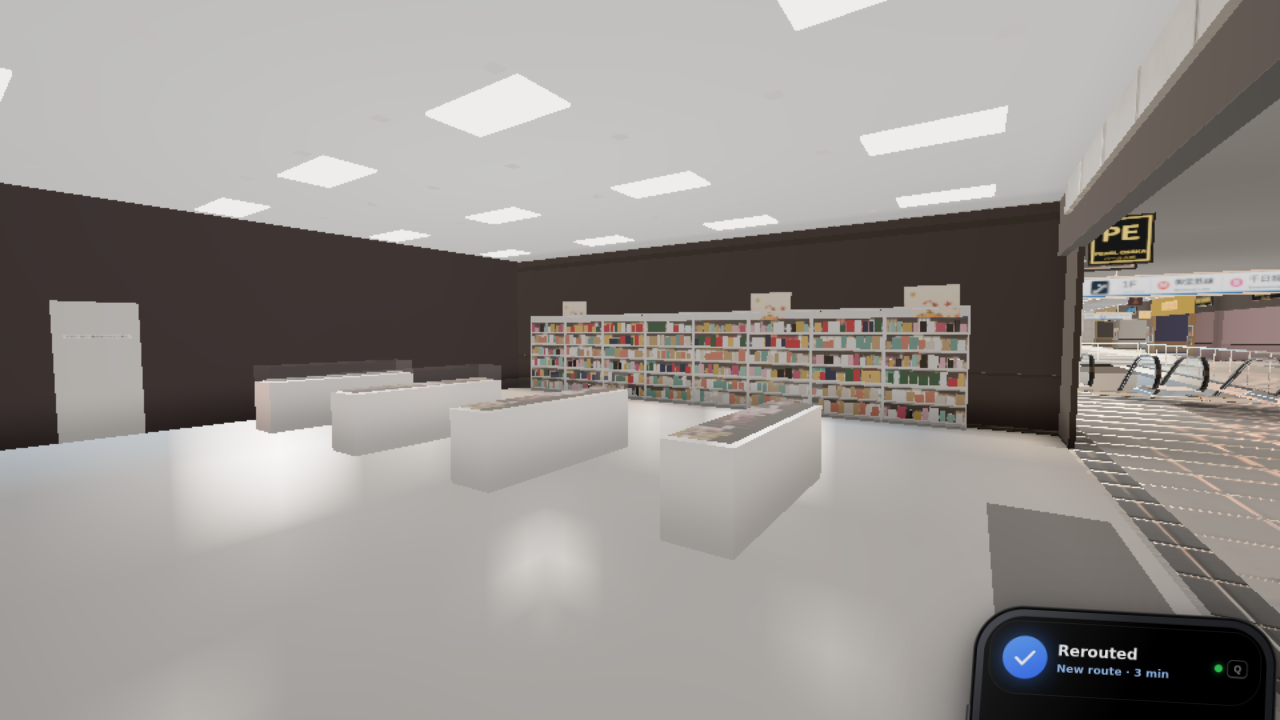
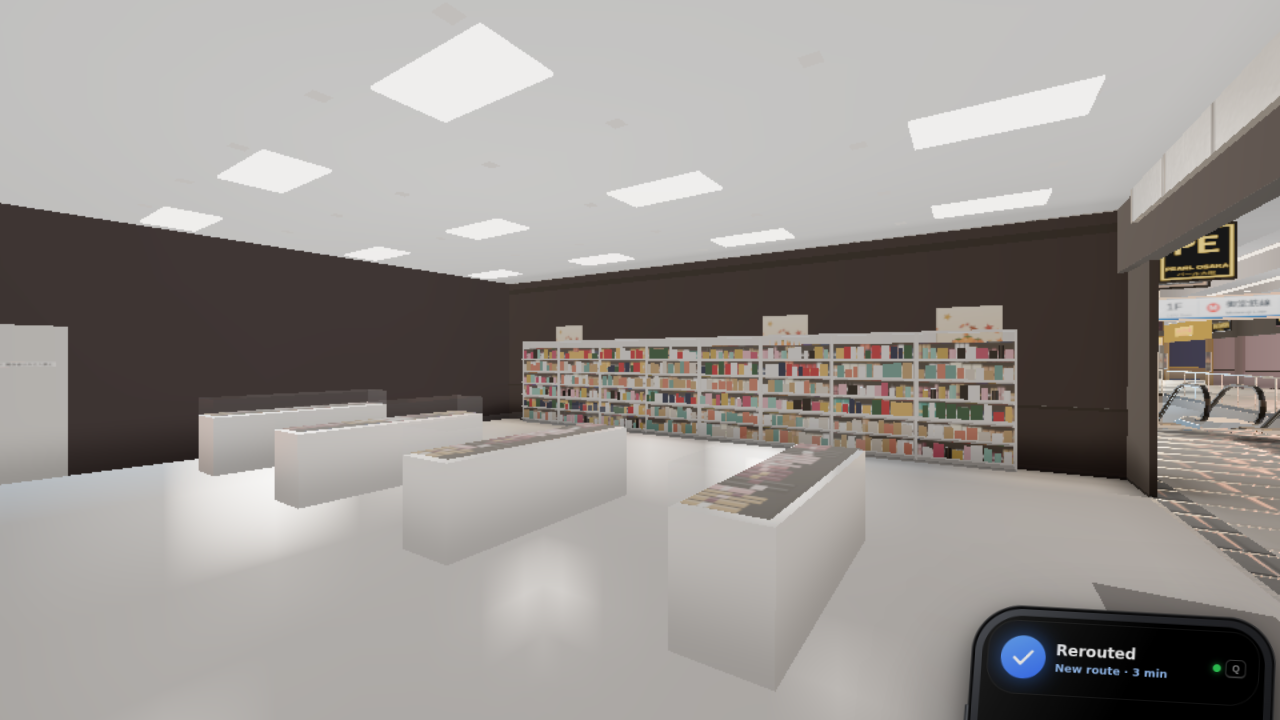
Lost in Namba v3: WIP checkpoint
Claude-Session: https://claude.ai/code/session_01DFPWmVZjWP3RarZo2JLFjj

diff --git a/namba-demo/js/render/intrusions.js b/namba-demo/js/render/intrusions.js
@@ -66,15 +66,23 @@ function clipStructures(ctx, res) {
       o.updateMatrixWorld();
       if (!o.matrixWorld.equals(IDENT)) return; // batches are built in world space
       const foreign = (x, y, z) => { const zn = zoneAt(x, y, z); return !!zn && !rule.keepZones.has(zn); };
-      // any foreign volume inside an AABB? (1 m sampling of the box)
+      const masks = rule._masks || (rule._masks = []);
+      // does an AABB touch a foreign indoor volume? (cell flags per level band, conservative)
       const boxHit = (b) => {
-        for (let y = b[1]; y <= b[4] + 1e-6; y += Math.max(0.5, (b[4] - b[1]) / 4 || 1)) {
-          for (let x = b[0]; x <= b[3] + 1e-6; x += 1) for (let z = b[2]; z <= b[5] + 1e-6; z += 1) if (foreign(x, y, z)) return true;
-          if (b[4] - b[1] < 1e-3) break;
+        for (let li = 0; li < LEVEL_ORDER.length; li++) {
+          const lo = ys[li] - 0.05, hi = li + 1 < ys.length ? ys[li + 1] - 0.05 : Infinity;
+          if (b[4] < lo || b[1] >= hi) continue;
+          if (masks[li] === undefined) { const tm = performance.now(); masks[li] = levelMask(world, LEVEL_ORDER[li], rule.keepZones, ys[li]); res.maskMs = (res.maskMs || 0) + performance.now() - tm; }
+          const m = masks[li]; if (!m) continue;
+          const yMin = Math.max(b[1], lo);
+          const g = m.g;
+          const cx0 = Math.max(0, Math.floor(b[0] - g.x0)), cx1 = Math.min(g.w - 1, Math.floor(b[3] - g.x0));
+          const cz0 = Math.max(0, Math.floor(b[2] - g.z0)), cz1 = Math.min(g.h - 1, Math.floor(b[5] - g.z0));
+          for (let cz = cz0; cz <= cz1; cz++) for (let cx = cx0; cx <= cx1; cx++) if (m.top[cz * g.w + cx] >= yMin) return true;
         }
         return false;
       };
-      const g = o.geometry, names = Object.keys(g.attributes);
+      const g = o.geometry, names = Object.keys(g.attributes).sort((a, b) => (a === 'position' ? -1 : b === 'position' ? 1 : 0));
       const attrs = names.map(n => g.attributes[n]);
       if (attrs.some(a => a.isInterleavedBufferAttribute) || Object.keys(g.morphAttributes).length) return;
       const pos = g.attributes.position, n = pos.count / 3;
@@ -82,45 +90,64 @@ function clipStructures(ctx, res) {
       g.computeBoundingBox();
       const bb = g.boundingBox;
       if (!boxHit([bb.min.x, bb.min.y, bb.min.z, bb.max.x, bb.max.y, bb.max.z])) return;
-      const out = attrs.map(() => []);
+      // vertex = Float32Array of all attributes (stride S, position first)
+      const sizes = attrs.map(a => a.itemSize), S = sizes.reduce((x, y) => x + y, 0);
+      const out = [];
       let dropped = 0, kept = 0;
-      const emit = (V) => { for (let a = 0; a < attrs.length; a++) for (let k = 0; k < 3; k++) out[a].push(...V[k][a]); kept++; };
-      const P = (v) => v[0]; // vertex = [posArray, ...otherAttrArrays]
-      const proc = (V, depth) => {
-        const p0 = P(V[0]), p1 = P(V[1]), p2 = P(V[2]);
-        const e = [dist(p1, p2), dist(p2, p0), dist(p0, p1)];
-        const big = Math.max(e[0], e[1], e[2]);
-        const b = [Math.min(p0[0], p1[0], p2[0]), Math.min(p0[1], p1[1], p2[1]), Math.min(p0[2], p1[2], p2[2]), Math.max(p0[0], p1[0], p2[0]), Math.max(p0[1], p1[1], p2[1]), Math.max(p0[2], p1[2], p2[2])];
+      const emit = (A, B, C) => { for (const v of [A, B, C]) for (let j = 0; j < S; j++) out.push(v[j]); kept++; };
+      const d3 = (p, q) => Math.hypot(p[0] - q[0], p[1] - q[1], p[2] - q[2]);
+      const proc = (A, B, C, depth) => {
+        const eA = d3(B, C), eB = d3(C, A), eC = d3(A, B);
+        const big = Math.max(eA, eB, eC);
         if (big > MAX_EDGE && depth < 24) {
-          if (!boxHit(b)) { emit(V); return; }
-          // split the longest edge
-          const k = e[0] >= e[1] && e[0] >= e[2] ? 0 : e[1] >= e[2] ? 1 : 2; // edge opposite vertex k
-          const a = (k + 1) % 3, c = (k + 2) % 3;
-          const M = V[a].map((arr, i) => arr.map((v, j) => (v + V[c][i][j]) / 2));
-          const T1 = [], T2 = [];
-          T1[k] = V[k]; T1[a] = V[a]; T1[c] = M;
-          T2[k] = V[k]; T2[a] = M; T2[c] = V[c];
-          proc(T1, depth + 1); proc(T2, depth + 1);
+          const bx = [Math.min(A[0], B[0], C[0]), Math.min(A[1], B[1], C[1]), Math.min(A[2], B[2], C[2]), Math.max(A[0], B[0], C[0]), Math.max(A[1], B[1], C[1]), Math.max(A[2], B[2], C[2])];
+          if (!boxHit(bx)) { emit(A, B, C); return; }
+          // split the longest edge (keeps the winding)
+          const mid = (p, q) => { const m = new Float32Array(S); for (let j = 0; j < S; j++) m[j] = (p[j] + q[j]) / 2; return m; };
+          if (eA === big) { const M = mid(B, C); proc(A, B, M, depth + 1); proc(A, M, C, depth + 1); }
+          else if (eB === big) { const M = mid(C, A); proc(B, C, M, depth + 1); proc(B, M, A, depth + 1); }
+          else { const M = mid(A, B); proc(C, A, M, depth + 1); proc(C, M, B, depth + 1); }
           return;
         }
-        const cx = (p0[0] + p1[0] + p2[0]) / 3, cy = (p0[1] + p1[1] + p2[1]) / 3, cz = (p0[2] + p1[2] + p2[2]) / 3;
-        if (foreign(cx, cy, cz)) { dropped++; return; }
-        emit(V);
+        if (foreign((A[0] + B[0] + C[0]) / 3, (A[1] + B[1] + C[1]) / 3, (A[2] + B[2] + C[2]) / 3)) { dropped++; return; }
+        emit(A, B, C);
       };
-      for (let f = 0; f < n; f++) {
-        const V = [0, 1, 2].map(k => attrs.map(a => Array.from(a.array.subarray((f * 3 + k) * a.itemSize, (f * 3 + k + 1) * a.itemSize))));
-        proc(V, 0);
-      }
+      const vert = (i) => { const v = new Float32Array(S); let o = 0; for (let a = 0; a < attrs.length; a++) { const it = sizes[a]; v.set(attrs[a].array.subarray(i * it, (i + 1) * it), o); o += it; } return v; };
+      for (let f = 0; f < n; f++) proc(vert(f * 3), vert(f * 3 + 1), vert(f * 3 + 2), 0);
       if (!dropped) return;
       res.tris += dropped; res.added += Math.max(0, kept - (n - dropped));
       res.meshes.push(`${o.name}@${lv}: ${n} -> ${kept}`);
       if (!kept) { o.layers.disableAll(); o.visible = false; return; }
-      names.forEach((nm, a) => { const at = attrs[a]; g.setAttribute(nm, new THREE.BufferAttribute(new at.array.constructor(out[a]), at.itemSize, at.normalized)); });
+      const nv = out.length / S;
+      let off = 0;
+      names.forEach((nm, a) => {
+        const at = attrs[a], it = sizes[a], arr = new at.array.constructor(nv * it);
+        for (let i = 0; i < nv; i++) for (let j = 0; j < it; j++) arr[i * it + j] = out[i * S + off + j];
+        off += it;
+        g.setAttribute(nm, new THREE.BufferAttribute(arr, it, at.normalized));
+      });
       g.computeBoundingSphere(); g.computeBoundingBox();
     });
   }
 }
-const dist = (a, b) => Math.hypot(a[0] - b[0], a[1] - b[1], a[2] - b[2]);
+// one level: top[cell] = highest y (absolute) of a foreign indoor volume over that cell, -Inf if none
+function levelMask(world, lv, keepZones, y0) {
+  const L = world.layout;
+  const g = world.grids[lv]; if (!g) return null;
+  const top = new Float32Array(g.w * g.h).fill(-Infinity);
+  let any = false;
+  for (let i = 0; i < top.length; i++) {
+    const t = g.type[i];
+    let zone = null, y = -Infinity;
+    if (t === CELL.RAMP && g.ramp[i] >= 0) { zone = L.ramps[g.ramp[i]].zone; y = Infinity; }
+    else if (t === CELL.WALK || t === CELL.VOID) {
+      const sp = g.space[i] >= 0 ? L.spaces[g.space[i]] : null;
+      if (sp && !sp.outdoor) { zone = sp.zone; y = y0 + (sp.ceil || 3.5) + 0.6; }
+    }
+    if (zone && !keepZones.has(zone)) { top[i] = y; any = true; }
+  }
+  return any ? { g, top } : null;
+}
 
 // The city ground plane (a 1.5 km asphalt disc just under street level) is rebuilt with a hole over
 // every 1F cell that opens to B1 (street stair wells, voids), so wells descend to their landing.

diff --git a/namba-demo/js/ui/phone/track.js b/namba-demo/js/ui/phone/track.js
@@ -28,7 +28,10 @@
 // Emits 'nav:track' {state, headingErr, lost} on every state change.
 // Nothing runs while riding an escalator, near the destination, or pocketed.
 // =============================================================================
+import { LEVELS } from '../../world/layout.js';
+
 const DEG = 180 / Math.PI;
+const lvl = (l) => (LEVELS[l] ? LEVELS[l].label : l).replace('B1F', 'B1').replace('B2F', 'B2');
 const LOOK = 6;              // m along the route for the heading target
 
 export class Tracker {
@@ -39,7 +42,7 @@ export class Tracker {
   }
   reset() {
     this.state = 'on'; this.err = 0; this.lost = 0; this.active = false;
-    this._r = null; this._minRem = Infinity; this._target = null;
+    this._r = null; this._minRem = Infinity; this._target = null; this._levels = null; this._wrongFloor = null; this._why = '';
     this._driftT = 0; this._okT = 0; this._offT = 0; this._stateT = 0; this._cool = 0; this._tgtT = 0;
     this._lastBuzz = -1e9; this._t = 0;
   }
@@ -92,6 +95,12 @@ export class Tracker {
     if (R !== this._r) {
       this._r = R; this._tgtT = 0;
       if (isFinite(R.total)) { this._minRem = Math.min(this._minRem, R.total); this.lost = Math.max(0, R.total - this._minRem); }
+      // the floors of the route we were following: stepping off onto another one is "wrong floor", even when the
+      // new floor happens to have an equally short way (judged before the new route's floors are adopted)
+      if (body.ramp < 0) {
+        if (this._levels && !this._levels.has(body.level) && this.state !== 'off') this._wrongFloor = body.level;
+        else if (!this._wrongFloor && R.legs) this._levels = new Set(R.legs.map(l => l.level));
+      }
     }
     this._tgtT -= dt;
     if (this._tgtT <= 0) { this._tgtT = 0.1; this._aim(R, body); }
@@ -115,7 +124,7 @@ export class Tracker {
     const a = Math.abs(this.err);
     const headBad = moving && a > thr, headGood = a < 40;
     const lostBad = moving && this.lost > 5;
-    const offNow = this.lost > 12;
+    const offNow = this.lost > 12 || !!this._wrongFloor;
     this._offT = offNow ? this._offT + dt : 0;
     const goOff = this._offT > 0.5 && this._cool <= 0;
 
@@ -141,6 +150,7 @@ export class Tracker {
   }
 
   _goOff() {
+    this._why = this._wrongFloor ? 'floor' : 'lost';
     this._set('off');
     if (this._t - this._lastBuzz > 20) { this._lastBuzz = this._t; this.phone.vibrate && this.phone.vibrate(); }
   }
@@ -149,6 +159,7 @@ export class Tracker {
     const R = this.app.route;
     this._minRem = R && R.ok && isFinite(R.total) ? R.total : Infinity;
     this.lost = 0; this._cool = 8;
+    this._wrongFloor = null; this._levels = R && R.ok && R.legs ? new Set(R.legs.map(l => l.level)) : null;
     const st = this.phone._stats; if (st) st.lodestoneReroutes = (st.lodestoneReroutes || 0) + 1;
     this._set('rerouted');
   }
@@ -157,7 +168,10 @@ export class Tracker {
   sign() {
     if (!this.active || this.state === 'on') return null;
     const a = Math.abs(this.err), side = this.err > 0 ? 'right' : 'left';
-    if (this.state === 'off') return { cls: 'trk-off', live: true, title: 'Rerouting…', short: 'Rerouting…', sub: 'Off the route · finding a new way', gsub: 'Off the route · new way…' };
+    if (this.state === 'off') {
+      const fl = this._why === 'floor' && this.ctx.player ? lvl(this.ctx.player.body.level) : '';
+      return { cls: 'trk-off', live: true, title: 'Rerouting…', short: 'Rerouting…', sub: fl ? `You’re on ${fl} · finding a new way` : 'Off the route · finding a new way', gsub: fl ? `You’re on ${fl}` : 'Off the route' };
+    }
     if (this.state === 'rerouted') {
       const R = this.app.route, eta = R && isFinite(R.eta) ? (R.eta < 45 ? '<1 min' : `${Math.max(1, Math.round(R.eta / 60))} min`) : '';
       return { cls: 'trk-re', live: false, check: true, title: 'Rerouted', short: 'Rerouted', sub: eta ? `New route · ${eta}` : 'New route' };

diff --git a/namba-demo/notes/v3-world.md b/namba-demo/notes/v3-world.md
@@ -1,0 +1,96 @@
+# v3 — World (item 7: escalators that "go nowhere")
+
+Owner files touched: `js/render/intrusions.js` (new), `js/render/visibility.js`,
+`js/world/arch/ceilings.js`, `js/world/arch/surfaces.js`, `js/world/arch/escalators.js`.
+Screenshots: `notes/v3-shots/world/before/*.png` vs `notes/v3-shots/world/after/*.png`
+(file name = `pose_<level>_<x>_<z>_<yawDeg>_<pitchDeg>`).
+
+## Root causes (with evidence)
+
+Found with a raycast probe (teleport + `THREE.Raycaster` against layer 0 from the camera; the
+first hit's mesh / chunk / material) and the baseline screenshots.
+
+1. **The Nankai viaduct runs through Namba CITY 2F and Namba Parks** (the player's two
+   screenshots). `js/world/transit/env.js` builds the Nankai viaduct straight south from the
+   platform ends (z 110) to `visRange` end z 245, across the whole track width x -51..17, at
+   3F - 2.35 m. Its pieces land inside other zones' interiors:
+   - deck underside at **y 9.65** — below the Namba CITY 2F ceiling (10.0) and the Parks 2F
+     ceiling (10.2). Probe: from CITY 2F (0,150) every upward ray hits
+     `transit_env:transit_concrete` at 9.65; from the Parks 2F escalator foot (-2,216) every
+     ray above the steps hits it too. Visible whenever 3F is drawn (from 2F: always, ±1 level),
+     i.e. the whole CITY 2F south mall and the Parks 2F hall have a flat, unlit concrete ceiling
+     and the Parks 2F→3F escalators rise straight into it (`before/pose_2F_-2_216_180_18.png`).
+   - ballast top at **y 10.89** (faces up) — from Parks 3F at the top of the 3F→2F down
+     escalator the well "bottom" is this gravel plane ~1 m below your feet = the speckled
+     "ground" of screenshot 2 (`before/pose_3F_-2_238.5_0_-35.png`).
+   - a catenary portal at z 216: beam at **y 18.6 across the Parks 4F corridor** (probe hit at
+     5.9 m from (-1,222) on 4F), posts through the Parks 3F shops.
+2. **City ground plane over street stair wells.** `js/world/outdoor/street.js` lays a 1.5 km
+   asphalt disc at y -0.4 (`street:ground`, global outdoor root, shown within 70 m walking of
+   daylight). It has no holes, so every street stair from B1 (NAMBAWALK exits 15/18/21/24,
+   Midosuji exit 1) "runs into a ground" 0.4 m below the street (probe at exit 15: rays down the
+   well hit `street:ground` at -0.4).
+3. **Generic: wells read as slots into a blank plane.** The well ceiling on the upper level was a
+   plain, unlit continuation of the upper ceiling (`ceilings.js`, last loop), the opening in the
+   lower ceiling had no edge treatment, and nothing marked the bottom landing. From the foot,
+   through a 4 m x 14 m slot, all you see of the upper level is that plain ceiling.
+4. **Parks 6F well opens onto black.** The 5F→6F escalator footprint (z 276-290) starts 8 m
+   before the 6F dining floor does (z 284); on 6F those well cells have SOLID on three sides and
+   nothing built above the floor → black void beyond the top landing
+   (`before/pose_6F_-2_296_0_-25.png`).
+5. Not a cause: per-level culling. `visibility.js` always draws own level ±1 and other-level
+   chunks near an opening (the Nankai / CITY / subway shots show the destination level through
+   every well); camera far plane 900 m, fog irrelevant at these distances. Only a small pop risk
+   at the level swap (other levels used 60 % of the draw distance) — fixed below.
+
+## What changed
+
+- `js/render/intrusions.js` (new; called once from `Visibility.init`, before chunk records):
+  - removes `transit_env:*` triangles that lie inside an indoor walkable volume (floor .. ceiling
+    + 0.6 m plenum) or a ramp well of a non-transit zone (keeps nankai / midosuji / sennichimae).
+    Big triangles are split along the longest edge down to ≤ 3 m first, but only where their box
+    touches such a volume (per-level cell masks), so the viaduct survives over solid ground and
+    over the station. Result: CITY 2F and Parks get their real ceilings back; the Parks well
+    bottom is the 2F floor; the 4F beam is gone.
+  - rebuilds `street:ground` as a disc with holes over every 1F opening to B1 (street stair
+    wells, 1F voids, B1→1F escalator wells).
+  - logs `[render] intrusion clip: …`; result in `ctx.visibility.intrusions`.
+- `ceilings.js` `buildWellCeilings` (replaces the plain "ceilings over ramp wells" loop): per
+  bank, on the upper level: a raised coffer over the well (up to +0.7 m, capped under the next
+  slab), plaster step + warm/cool cove light on the rim where the neighbour has a ceiling, a line
+  light over each lane for the full well length, declared to lighting as strip lights with a range
+  that reaches the lower floor (the bake already pours upper lights through ramp holes: the steps
+  and the bottom landing get lit), and **shaft walls** wherever the upper level has no floor
+  beside the well (Parks 6F).
+- `surfaces.js` slab edges: ramp-well openings get a lit reveal line along the lower edge of the
+  slab (mood colour), so from below the opening in the ceiling reads at once and matches the well.
+- `escalators.js` `_landingLights`: a "down" light pool 2 m beyond the foot of every indoor bank
+  (bake only), so the patch of lower floor seen from the top reads as a lit landing.
+- `visibility.js`: while riding a ramp, the destination level is drawn at the full own-level
+  draw distance (was 60 %), so nothing pops at the level swap.
+
+## Perf
+
+See the table at the end (filled from `tools/perfshot.mjs`, headless SwiftShader, quality=high).
+Architecture: +33 meshes over the whole map (new materials in some chunks), +1.8 k triangles,
++53 baked lights (offline build). Intrusion clip: -5.9 k / +7 k triangles in the transit chunk,
+one-off ~15-50 ms at init (measured 170-300 ms on this 4-core box at load average 18).
+
+## Requests (not my files)
+
+- **Transit (`js/world/transit/env.js`)**: stop the Nankai viaduct structures (deck, ballast,
+  parapets, catenary portals) where the tracks end (z ≈ 120) or at least before Namba CITY's
+  south half; `massing.js` already draws the viaduct swinging west past Parks
+  (`viaductAt`). `visRange` [.., 245] also lets departing trains drive through the Parks
+  building at 3F — consider ending it at ~170 or following `viaductAt`. With this,
+  `intrusions.js` finds nothing to clip (it stays as a guard).
+- **Outdoors (`js/world/outdoor/street.js`)**: build `street:ground` with holes over 1F
+  openings (or as a ring around the complex); `intrusions.js` does it at init meanwhile.
+- **Layout (optional, lead)**: real escalator openings usually extend 1-3 m past the foot of
+  the escalator (double-height bottom landing). Adding `voids` on the upper level just beyond the
+  low end of the CITY / Parks banks (glass rail) would let you see the upper floor's ceiling
+  lights and people from the foot. Not done (changes nav/collision).
+
+## Open / unsure
+
+- See bottom of this file after the measurements.
